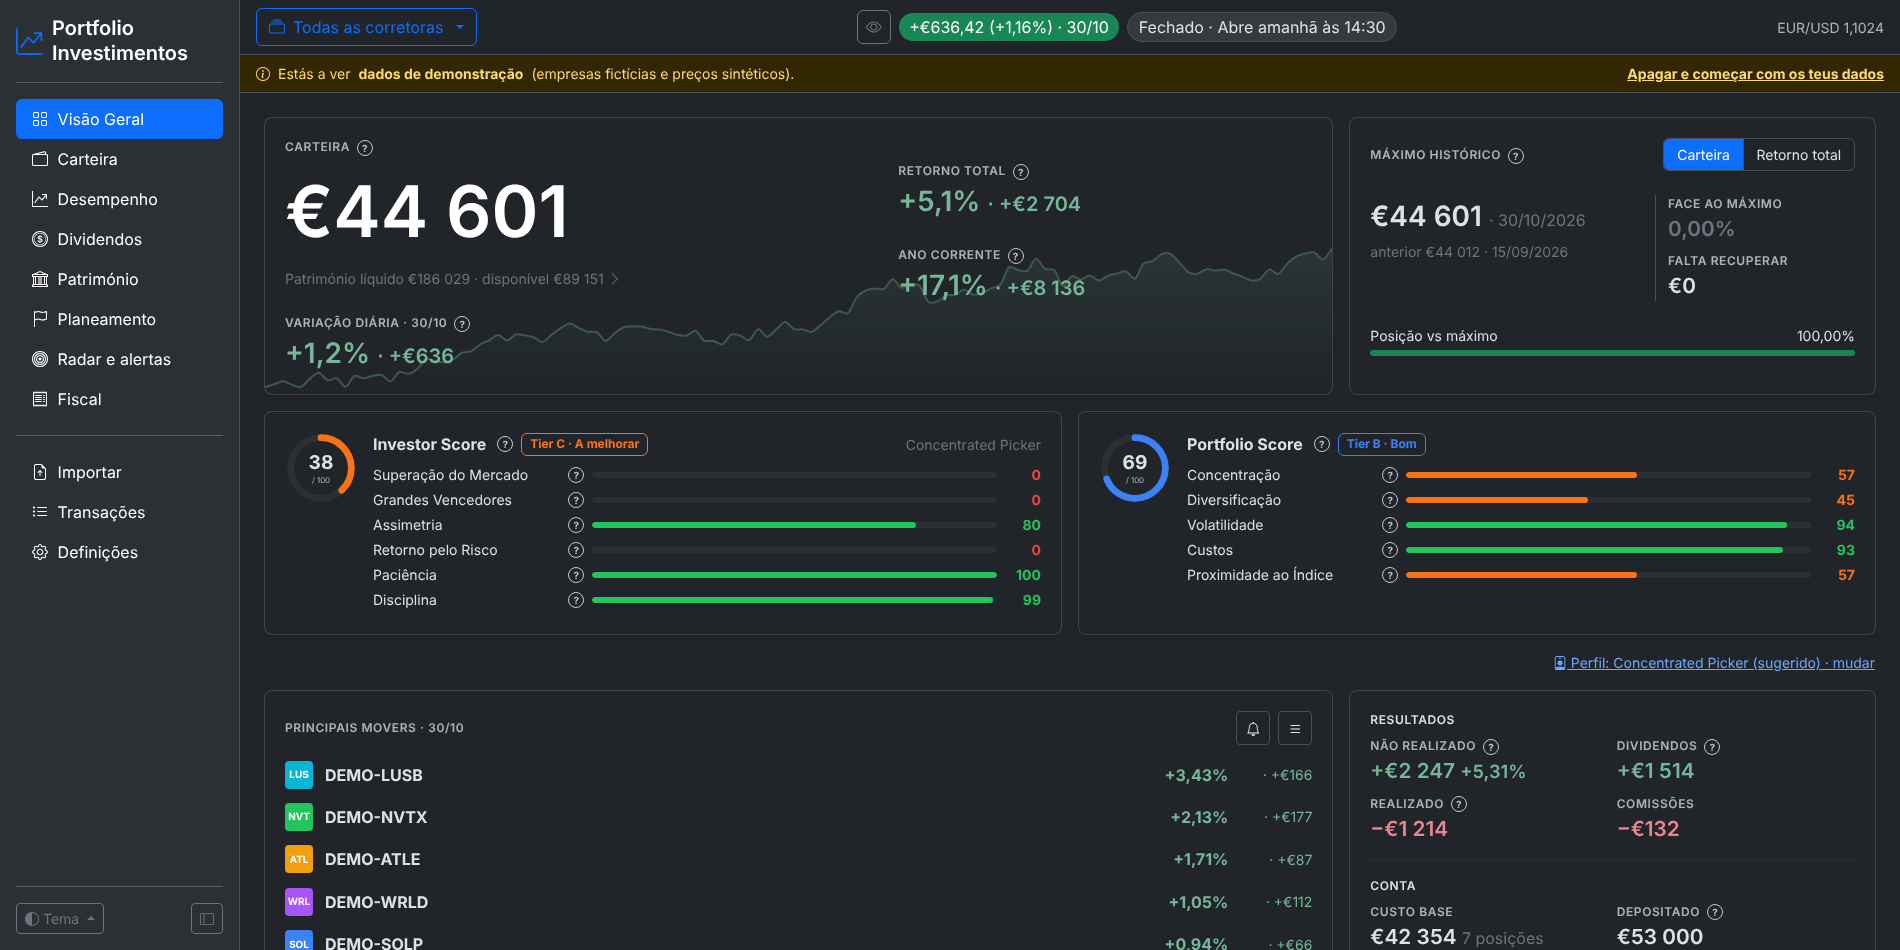
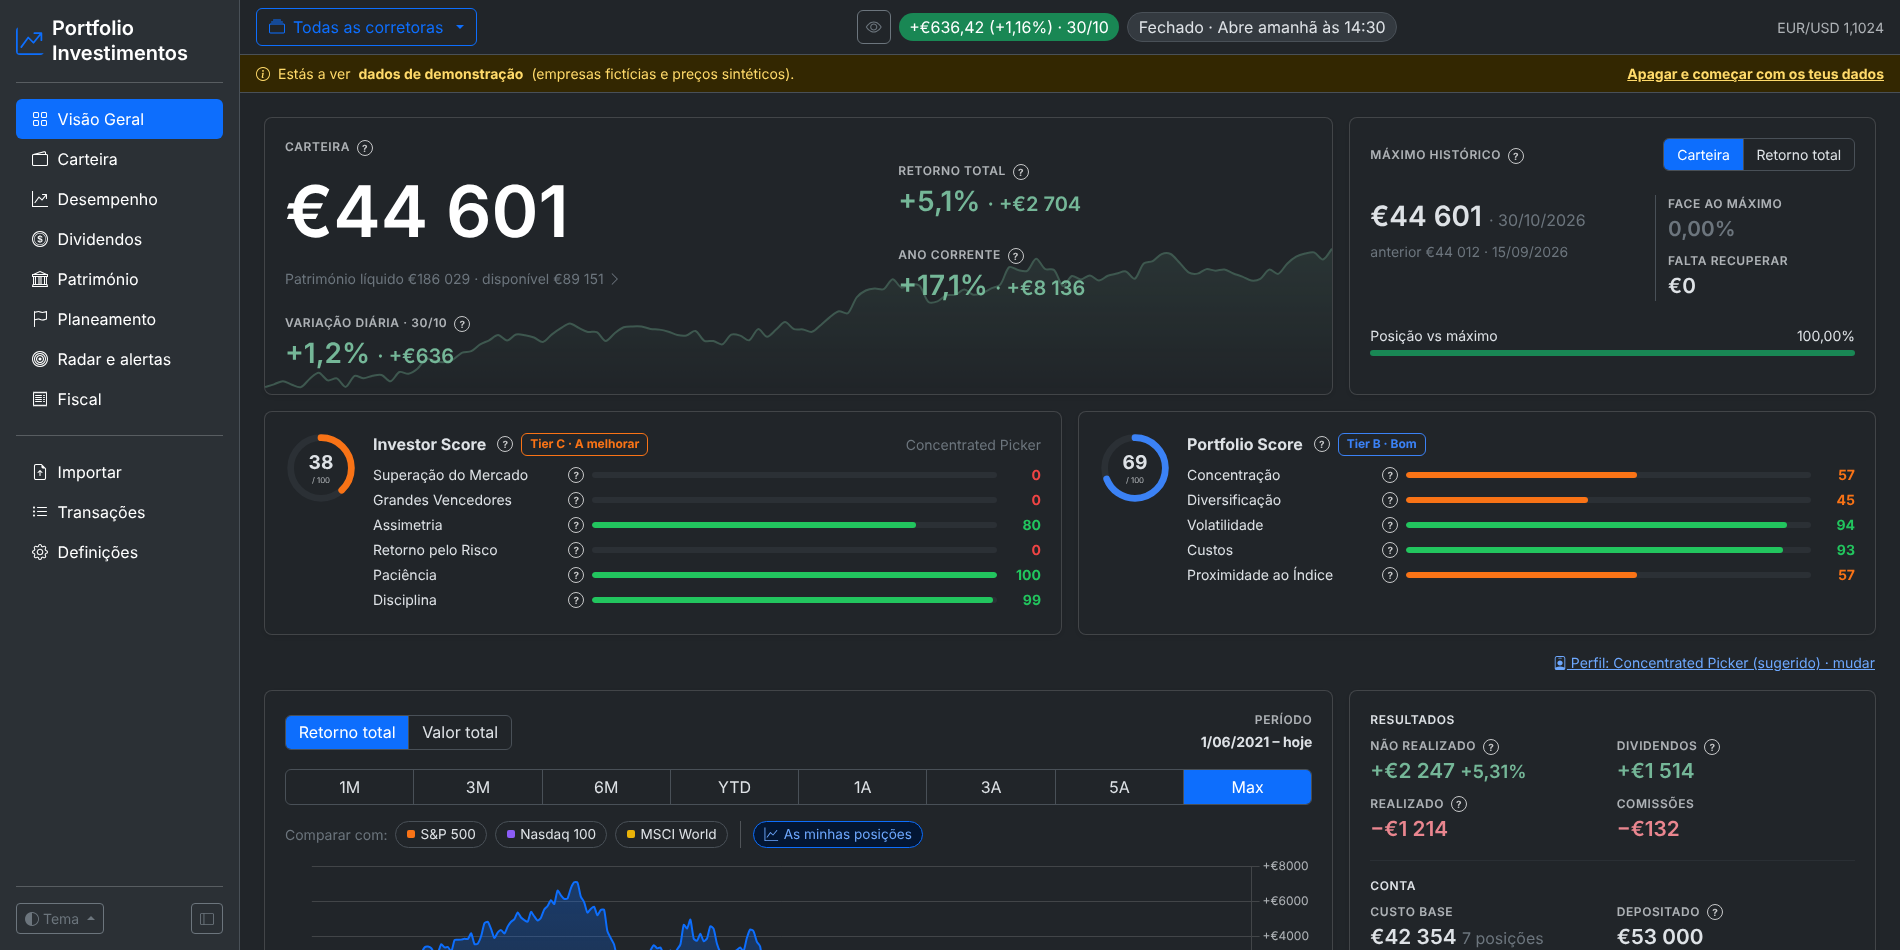
Visão Geral: gráfico de evolução no lugar dos principais movers
Na Visão Geral, o gráfico «Retorno total / Valor total» (com os períodos, a comparação com os índices e as minhas posições) troca de lugar com os «Principais movers»: o gráfico fica logo a seguir às notas do perfil de investidor, ao lado de «Resultados / Conta», e os movers passam para baixo, ao lado de «Próximos eventos». Os restantes cartões ficam onde estavam.

README (descrição da Visão Geral) e capturas 01 e 02 (claro e escuro) atualizados.

Claude-Session: https://claude.ai/code/session_01AhMv5rzh4esVFWwNf2sje8

Changed region(s): [[0.1242, 0.7326, 0.4968, 1.0], [0.6211, 0.7326, 0.7142, 0.9158], [0.59, 0.9463, 0.7142, 1.0]]

diff --git a/portfolio_investimentos/templates/pages/index.html b/portfolio_investimentos/templates/pages/index.html
@@ -69,25 +69,24 @@
   <!-- Perfil de investidor: notas -->
   {{ ins.scores_row(scores) }}
 
-  <!-- Movers -->
+  <!-- Gráfico de desempenho -->
   <div class="col-xl-8">
     <div class="pm-card">
-      <div class="row">
-        <div class="col-12">
-          <div class="d-flex align-items-center gap-2 mb-2">
-            <span class="pm-label">Principais movers · {{ p.as_of|ddmm }}</span>
-            <a class="btn btn-pm btn-icon btn-sm ms-auto" href="/radar" title="Alertas"><i class="bi bi-bell"></i></a>
-            <a class="btn btn-pm btn-icon btn-sm" href="/carteira" title="Carteira"><i class="bi bi-list"></i></a>
-          </div>
-          {% for m in movers %}
-          <div class="pm-row">
-            {{ logo(m.asset) }}<b class="flex-grow-1">{{ m.asset.ticker }}</b>
-            <span class="{{ m.day_change_pct|tone }} fw-bold">{{ m.day_change_pct|pct(2) }}</span>
-            <small class="{{ m.day_change_eur|tone }} money" style="min-width:4.5rem;text-align:right">· {{ m.day_change_eur|money(sign=True) }}</small>
-          </div>
-          {% else %}<p class="text-secondary small">Sem cotações recentes.</p>{% endfor %}
-        </div>
+      <div class="d-flex align-items-center gap-2 flex-wrap mb-3">
+        <div class="pm-seg" id="modeSeg"><button class="active" data-mode="gain">Retorno total</button><button data-mode="value">Valor total</button></div>
+        <div class="ms-auto text-end"><div class="pm-label">Período</div><b id="periodLabel" class="small"></b></div>
       </div>
+      <div class="pm-periods mb-3" id="periods">
+        {% for k in ["1M", "3M", "6M", "YTD", "1A", "3A", "5A", "MAX"] %}<button data-p="{{ k }}" class="{{ 'active' if k == 'MAX' }}">{{ 'Max' if k == 'MAX' else k }}</button>{% endfor %}
+      </div>
+      <div class="d-flex align-items-center gap-2 flex-wrap small mb-2">
+        <span class="text-secondary">Comparar com:</span>
+        {% for b in benchmarks %}<button class="pm-chip bench" data-t="{{ b.ticker }}" style="--chip: {{ b.color }}"><span class="sw" style="background: {{ b.color }}"></span>{{ b.name }}</button>{% endfor %}
+        <span class="vr mx-1"></span>
+        <button class="pm-chip" id="posToggle" title="Mostra o contributo das posições com maior ganho ou perda no período"><i class="bi bi-graph-up"></i> As minhas posições</button>
+      </div>
+      <div style="height: 320px"><canvas id="perfChart"></canvas></div>
+      <div id="posLegend" class="d-flex flex-wrap gap-2 justify-content-center mt-2"></div>
     </div>
   </div>
 
@@ -117,24 +116,25 @@
     </div>
   </div>
 
-  <!-- Gráfico de desempenho -->
+  <!-- Movers -->
   <div class="col-xl-8">
     <div class="pm-card">
-      <div class="d-flex align-items-center gap-2 flex-wrap mb-3">
-        <div class="pm-seg" id="modeSeg"><button class="active" data-mode="gain">Retorno total</button><button data-mode="value">Valor total</button></div>
-        <div class="ms-auto text-end"><div class="pm-label">Período</div><b id="periodLabel" class="small"></b></div>
+      <div class="row">
+        <div class="col-12">
+          <div class="d-flex align-items-center gap-2 mb-2">
+            <span class="pm-label">Principais movers · {{ p.as_of|ddmm }}</span>
+            <a class="btn btn-pm btn-icon btn-sm ms-auto" href="/radar" title="Alertas"><i class="bi bi-bell"></i></a>
+            <a class="btn btn-pm btn-icon btn-sm" href="/carteira" title="Carteira"><i class="bi bi-list"></i></a>
+          </div>
+          {% for m in movers %}
+          <div class="pm-row">
+            {{ logo(m.asset) }}<b class="flex-grow-1">{{ m.asset.ticker }}</b>
+            <span class="{{ m.day_change_pct|tone }} fw-bold">{{ m.day_change_pct|pct(2) }}</span>
+            <small class="{{ m.day_change_eur|tone }} money" style="min-width:4.5rem;text-align:right">· {{ m.day_change_eur|money(sign=True) }}</small>
+          </div>
+          {% else %}<p class="text-secondary small">Sem cotações recentes.</p>{% endfor %}
+        </div>
       </div>
-      <div class="pm-periods mb-3" id="periods">
-        {% for k in ["1M", "3M", "6M", "YTD", "1A", "3A", "5A", "MAX"] %}<button data-p="{{ k }}" class="{{ 'active' if k == 'MAX' }}">{{ 'Max' if k == 'MAX' else k }}</button>{% endfor %}
-      </div>
-      <div class="d-flex align-items-center gap-2 flex-wrap small mb-2">
-        <span class="text-secondary">Comparar com:</span>
-        {% for b in benchmarks %}<button class="pm-chip bench" data-t="{{ b.ticker }}" style="--chip: {{ b.color }}"><span class="sw" style="background: {{ b.color }}"></span>{{ b.name }}</button>{% endfor %}
-        <span class="vr mx-1"></span>
-        <button class="pm-chip" id="posToggle" title="Mostra o contributo das posições com maior ganho ou perda no período"><i class="bi bi-graph-up"></i> As minhas posições</button>
-      </div>
-      <div style="height: 320px"><canvas id="perfChart"></canvas></div>
-      <div id="posLegend" class="d-flex flex-wrap gap-2 justify-content-center mt-2"></div>
     </div>
   </div>
 

diff --git a/README.md b/README.md
@@ -179,7 +179,7 @@ O tema escolhe-se no botão **Tema**, no fundo da barra lateral: Claro, Escuro o
 
 | Página | O que mostra |
 | --- | --- |
-| **Visão Geral** | Valor da carteira, variação diária, retorno total e do ano corrente; máximo histórico (carteira ou retorno). **Perfil de investidor**: Investor Score e Portfolio Score (0-100, últimos 3 anos) com seis perfis (Passive Index, Concentrated Picker, Diversified Active, Income Focus, Growth/Tech, Active Trader), o perfil sugerido pela carteira e a fórmula de cada métrica no «?». Principais movers; resultados e conta. Gráfico de evolução (retorno ou valor, 1M a Máx) com comparação com S&P 500, Nasdaq 100 e MSCI World e **as minhas posições** (as 5 com maior ganho ou perda e as restantes somadas, ligado por omissão). Próximos eventos dos próximos 90 dias (resultados, com o intervalo quando ainda é estimado, ex-dividendo e pagamentos). **Peso vs retorno** (mapa e bolhas) e **alocação** por setor, geografia, classe e corretora. |
+| **Visão Geral** | Valor da carteira, variação diária, retorno total e do ano corrente; máximo histórico (carteira ou retorno). **Perfil de investidor**: Investor Score e Portfolio Score (0-100, últimos 3 anos) com seis perfis (Passive Index, Concentrated Picker, Diversified Active, Income Focus, Growth/Tech, Active Trader), o perfil sugerido pela carteira e a fórmula de cada métrica no «?». Gráfico de evolução (retorno ou valor, 1M a Máx) com comparação com S&P 500, Nasdaq 100 e MSCI World e **as minhas posições** (as 5 com maior ganho ou perda e as restantes somadas, ligado por omissão); resultados e conta. Principais movers do dia. Próximos eventos dos próximos 90 dias (resultados, com o intervalo quando ainda é estimado, ex-dividendo e pagamentos). **Peso vs retorno** (mapa e bolhas) e **alocação** por setor, geografia, classe e corretora. |
 | **Carteira** | Posições abertas/fechadas, carteira vs mercado no dia, filtros por setor, pesquisa, tabela ordenável (preço, 1D, preço médio, investido, valor, não realizado, dividendos, efeito cambial, comissões, ROI, peso) e alocação por ativo, setor e moeda. «As crises»: quanto cairia a carteira de hoje se 2008, 2011, 2020 ou 2022 se repetissem (beta de cada posição face ao S&P 500) e quanto tempo levava a recuperar. «Os custos»: comissões, custo dos ETF (TER, indicado por ti) e retenções na fonte acima dos 15% da convenção, por ano e daqui a 20 anos. «O valor de cada ação»: por ordem de popularidade, DCF, Número de Graham, fórmula de crescimento de Graham (com o rendimento das obrigações AAA configurável) e modelo de Gordon, e em «Mais métodos» Owner Earnings (Buffett), Earnings Power Value (Greenwald), Bazin e o PEG de Peter Lynch, sempre em intervalo e com a fórmula e os números no «?», comparados com o preço, e o crescimento que o preço de hoje já assume; dados fundamentais do Yahoo (uma vez por semana, na atualização de cotações; se o pedido principal falhar, a partir das demonstrações financeiras, também da cotação principal pelo ISIN, convertidos para a moeda da cotação), que podes corrigir. |
 | **Desempenho** | Retorno total e IRR, TWR e CAGR vs índice, melhor/pior ano e mês, sequência atual; TWR anual e acumulado; drawdown; mapa de retornos mensais; mérito vs mercado (captura em alta/baixa, beta, % de meses acima do mercado); risco (Sharpe, Sortino, Calmar, volatilidade, max drawdown); alfa de Jensen e distribuição mensal ordenada. |
 | **Dividendos** | Recebido líquido/bruto e retenção na fonte, maior pagador, meses com dividendos, rendimento anualizado, crescimento anual. **Projeção** do ano e dos próximos 12 meses com os dividendos recebidos e, para posições recentes, os dividendos por ação do Yahoo, com a origem de cada valor. Dividendos por ano, decomposição do crescimento, **mapa mensal com a linha do próximo ano**, **datas ex-dividendo** (recebido, a receber, sem direito por ter comprado depois, previsto), yield on cost e histórico. |

diff --git a/CHANGELOG.md b/CHANGELOG.md
@@ -4,7 +4,9 @@ O que mudou em cada commit, do mais recente para o mais antigo (gerado a partir 
 
 ## 2026-11-01
 
-- **Menu: Radar e alertas antes de Fiscal**  
+- **Visão Geral: gráfico de evolução no lugar dos principais movers**  
+  O gráfico «Retorno total / Valor total» sobe para logo a seguir às notas (ao lado de «Resultados / Conta») e os «Principais movers» passam para o lugar dele (ao lado de «Próximos eventos»). Os restantes cartões ficam onde estavam.
+- **Menu: Radar e alertas antes de Fiscal** `b7d3544`  
   Nova ordem: Visão Geral, Carteira, Desempenho, Dividendos, Património, Planeamento, Radar e alertas, Fiscal.
 - **Valor de cada ação: mais quatro métodos e o PEG; «?» com círculo** `431b57a`  
   Por ordem de popularidade: DCF, Número de Graham, fórmula de crescimento de Graham (LPA × (8,5 + 2g) × 4,4 ÷ Y, com Y, o rendimento das obrigações AAA, configurável no cartão; 5% por omissão) e modelo de Gordon (D₁ ÷ (Ke − g), com o crescimento dos dividendos do histórico, no máximo 6%, e Ke de 8% a 10%) sempre visíveis; em «Mais métodos», Owner Earnings de Buffett (lucro líquido + amortizações − CAPEX de manutenção ± fundo de maneio, descontados como no DCF), Earnings Power Value de Greenwald (NOPAT normalizado ÷ WACC de 8% a 10% + caixa − dívida), Bazin e o PEG de Peter Lynch (com o preço de PEG 1). Owner earnings, NOPAT e caixa líquida vêm das demonstrações financeiras do Yahoo e podem ser corrigidos à mão (migração 6). O «?» das explicações passa a ser um círculo, mais escuro, em toda a aplicação.
